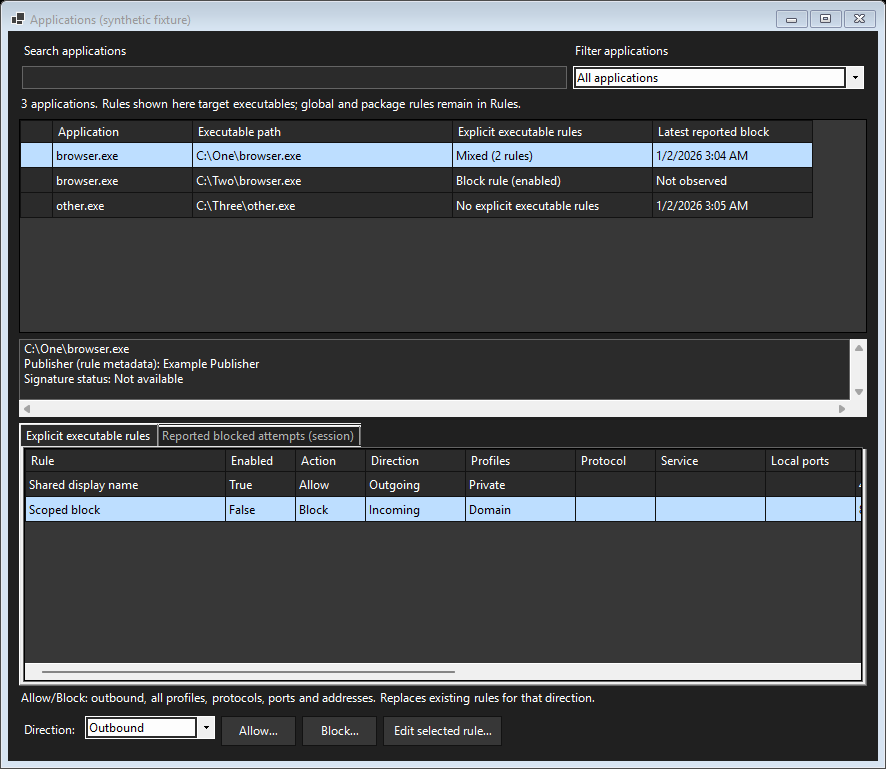
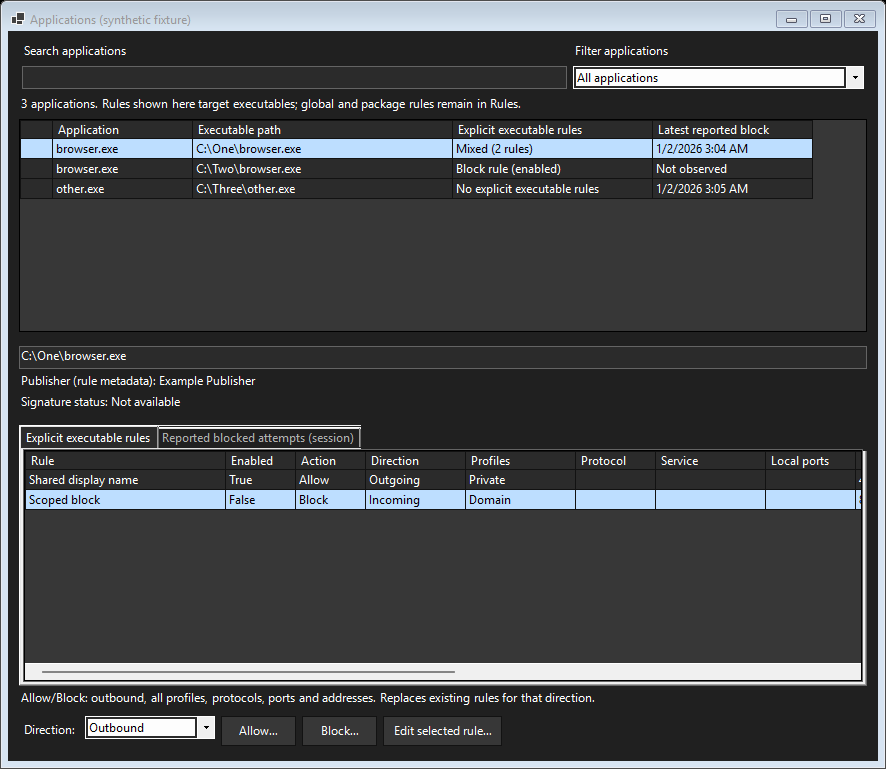
docs: refresh verified Windows interface captures

Changed region(s): [[0.0, 0.4369, 1.0, 0.6866], [0.0305, 0.156, 0.9142, 0.2809]]

diff --git a/src/NotifierForm.Designer.cs b/src/NotifierForm.Designer.cs
@@ -29,7 +29,7 @@ namespace MinimalFirewall
 
         #region Windows Form Designer generated code
 
-        private TableLayoutPanel? _notificationLayout;
+        private TableLayoutPanel _notificationLayout;
 
         private void InitializeComponent()
         {

diff --git a/docs/applications-view.md b/docs/applications-view.md
@@ -27,14 +27,16 @@ Edit opens the existing advanced rule editor for the individual selected rule. I
 
 ## Validation
 
-The Windows workflow compiles the application and checks the model, UI refresh state, search/filter/direction mnemonics, and popup layout. It opens the actual confirmation, progress, and rule-editor forms; long messages must scroll, buttons must remain visible, and sibling controls must not overlap.
+The Windows workflow runs `mise run build` to compile Release/x64, then checks the model, UI refresh state, search/filter/direction mnemonics, popup layout, and saved column preferences. It opens the actual confirmation, progress, rule-editor, and notification forms; long messages must scroll, buttons must remain visible, and sibling controls must not overlap.
 
-Committed captures show standalone controls from that run, using an empty baseline and synthetic application data, at 100% layout scale:
+Committed captures show standalone controls from that run, using an empty baseline and synthetic application data, at the default font size:
 
 - [Before: existing Rules control, empty](screenshots/issue-176/before-rules-empty.png)
 - [After: Applications, light](screenshots/issue-176/applications-light.png)
 - [After: Applications, dark](screenshots/issue-176/applications-dark.png)
 - [After: reported blocks, dark](screenshots/issue-176/reported-blocks-dark.png)
+- [Confirmation with scrollable message](screenshots/issue-176/confirmation-light.png)
+- [Notification, dark, 200% font size](screenshots/issue-176/notification-dark-font-200.png)
 
 Use Windows with the .NET 10 SDK and Visual Studio MSBuild, which supports COM reference generation:
 
